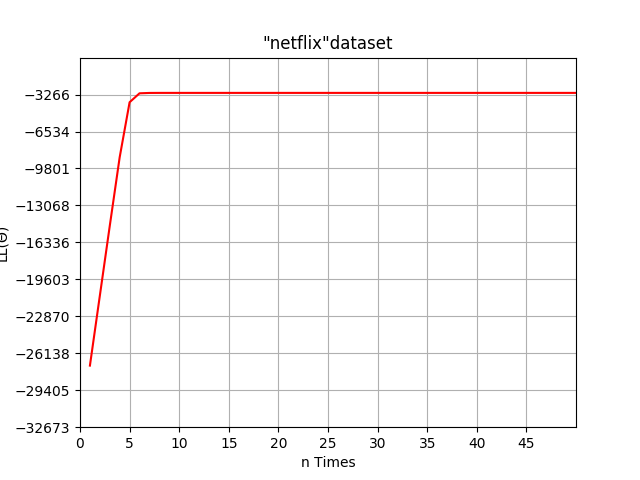
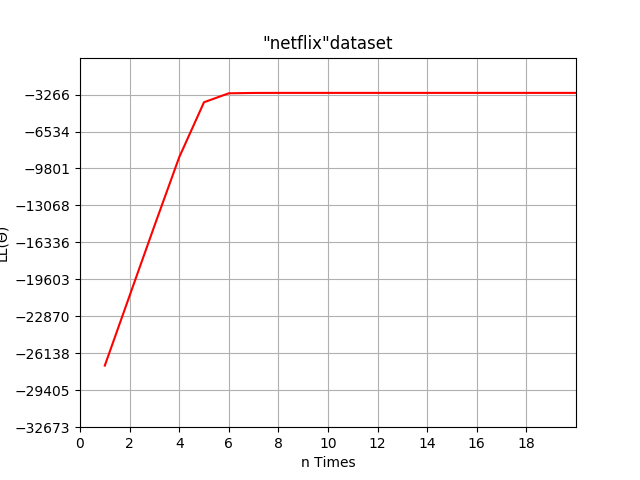
Revert "New dataset Still contains an error.."
This reverts commit 6fa020ae

diff --git a/training/train.py b/training/train.py
@@ -29,11 +29,12 @@ def train(fn, nTimes, rate, mh):
     fig, ax, xdata, ydata, line = init(fn)     #plotting the log likelihood while training
 
     for k in range(nTimes):
-        gradient_h, gradient_y_hat, h = np.zeros((mx, mh)), np.zeros((mh)), np.zeros((mh))
+        gradient_h = np.zeros((mx, mh))
+        gradient_y_hat = np.zeros((mh))
 
         for example in range(n):
             # Forward Pass, computing hidden layer
-            x, y,  = features[example], labels[example]
+            x, y, h = features[example], labels[example], np.zeros((mh))
             for j in range(mh):
                 sum = 0.0
                 for i in range(mx):

diff --git a/testing/test.py b/testing/test.py
@@ -38,13 +38,11 @@ def test(fn, thetas):
             sum += thetas_y_hat[j] * h[j]
         y_hat = sigmoid(sum)
         y_hats[example] = y_hat
-    print(y_hats)
+
     y_hats = vdecider(y_hats)
     guessed = np.zeros(len(values), dtype=int) #number of guesses for each value
     total = np.zeros(len(values), dtype=int)   #quantity of each value
 
-    print(labels)
-    print(y_hats)
     #Testing
     for label, y_hat in zip(labels, y_hats):
         for i in range(len(values)):

diff --git a/components/neural.py b/components/neural.py
@@ -14,14 +14,9 @@ def neural():
          #     'nTimes': 10000,
          #     'rate': 0.001
          # },
-        # {
-        #     'name': 'netflix',
-        #     'nTimes': 50,
-        #     'rate': 0.0001
-        # },
         {
-            'name': 'ancestry',
-            'nTimes': 100,
+            'name': 'netflix',
+            'nTimes': 20,
             'rate': 0.0001
         },
     ]
